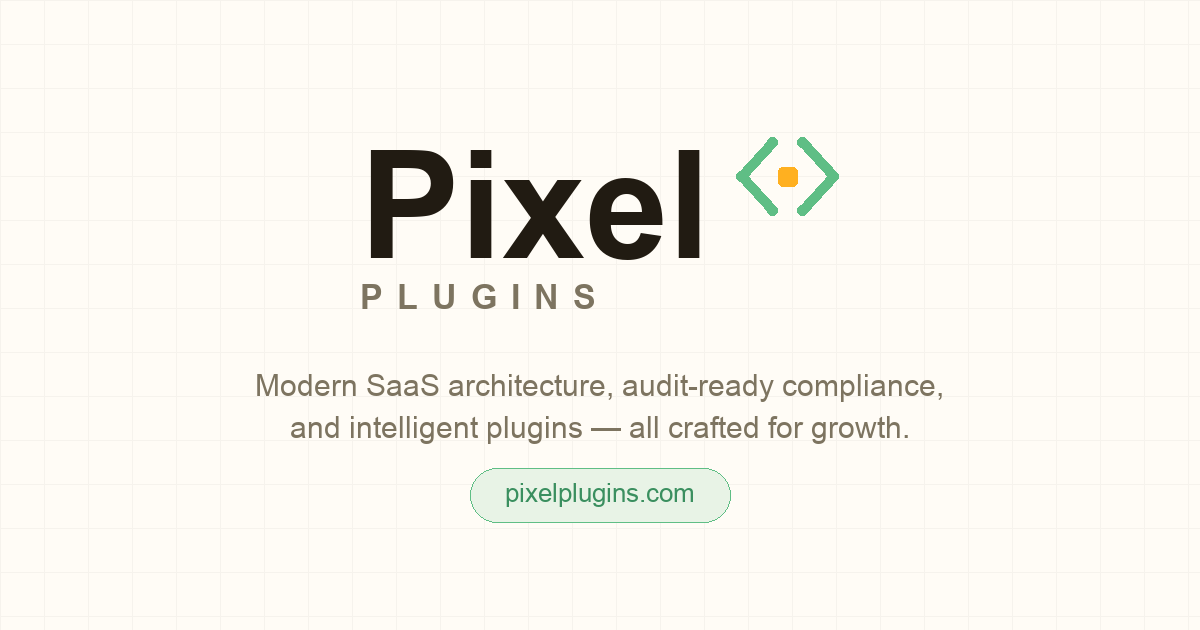
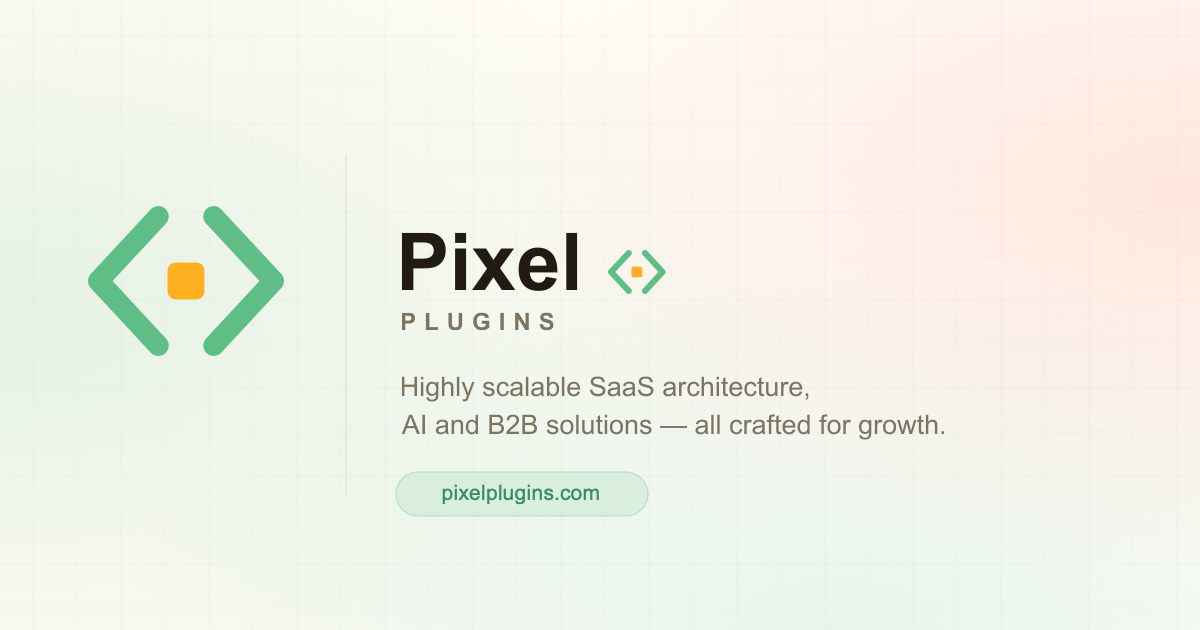
Update tagline copy and rebuild OG image from final design
- Swap tagline to "Highly scalable SaaS architecture, AI and B2B
  solutions, and custom apps & plugins — all crafted for growth."
  across hero subtitle, meta description, og:description, and
  twitter:description (previous line over-indexed on "audit-ready
  compliance," which is one service among many, not the core pitch)
- Replace og-image.svg/png with the final Illustrator-designed version
  (same stacked Pixel/PLUGINS lockup, correct 1200x630 crop)
- Sync the design system doc's type sample to match

diff --git a/index.html b/index.html
@@ -5,18 +5,18 @@
     <meta charset="UTF-8">
     <meta name="viewport" content="width=device-width, initial-scale=1.0">
     <title>Pixel Plugins — Scalable Software, AI Solutions & Custom Plugins</title>
-    <meta name="description" content="Modern SaaS architecture, audit-ready compliance, and intelligent plugins — all crafted for growth.">
+    <meta name="description" content="Highly scalable SaaS architecture, AI and B2B solutions, and custom apps & plugins — all crafted for growth.">
     <meta property="og:type" content="website">
     <meta property="og:site_name" content="Pixel Plugins">
     <meta property="og:title" content="Pixel Plugins — Scalable Software, AI Solutions & Custom Plugins">
-    <meta property="og:description" content="Modern SaaS architecture, audit-ready compliance, and intelligent plugins — all crafted for growth.">
+    <meta property="og:description" content="Highly scalable SaaS architecture, AI and B2B solutions, and custom apps & plugins — all crafted for growth.">
     <meta property="og:url" content="https://pixelplugins.com/">
     <meta property="og:image" content="https://pixelplugins.com/assets/brand/og-image.png">
     <meta property="og:image:width" content="1200">
     <meta property="og:image:height" content="630">
     <meta name="twitter:card" content="summary_large_image">
     <meta name="twitter:title" content="Pixel Plugins — Scalable Software, AI Solutions & Custom Plugins">
-    <meta name="twitter:description" content="Modern SaaS architecture, audit-ready compliance, and intelligent plugins — all crafted for growth.">
+    <meta name="twitter:description" content="Highly scalable SaaS architecture, AI and B2B solutions, and custom apps & plugins — all crafted for growth.">
     <meta name="twitter:image" content="https://pixelplugins.com/assets/brand/og-image.png">
     <meta name="facebook-domain-verification" content="6ew9ocj0i7qjqh1loqigjd9umc642s" />
     <link rel="preconnect" href="https://fonts.googleapis.com">
@@ -57,7 +57,7 @@
             <div class="hero-inner">
                 <div class="eyebrow"><span class="dot"></span>Pixel Plugins</div>
                 <h1>Build smarter. Scale faster. <span class="hl">Stay compliant.</span></h1>
-                <p class="hero-sub">Modern SaaS architecture, audit-ready compliance, and intelligent plugins — all crafted for growth.</p>
+                <p class="hero-sub">Highly scalable SaaS architecture, AI and B2B solutions, and custom apps & plugins — all crafted for growth.</p>
                 <div class="hero-actions">
                     <a href="#contact" class="btn-primary"><i class="ph-light ph-rocket-launch"></i> Work with us</a>
                     <a href="#services" class="btn-ghost">Explore services <i class="ph-light ph-arrow-right"></i></a>

diff --git a/assets/brand/Pixel Plugins Design System - Prism.html b/assets/brand/Pixel Plugins Design System - Prism.html
@@ -164,7 +164,7 @@
       <div class="scale-row"><div class="spec">Jakarta 800 · -0.03em · 2.8rem</div><div class="demo t-hero">Modern, colorful, never <span class="hl">shouting</span></div></div>
       <div class="scale-row"><div class="spec">Jakarta 700 · -0.02em · 2rem</div><div class="demo t-h2">A confident heading</div></div>
       <div class="scale-row"><div class="spec">Jakarta 700 · 0.78rem · 0.08em</div><div class="demo t-label">Section Label</div></div>
-      <div class="scale-row"><div class="spec">Jakarta 400 · 1.02rem · 1.7 lh</div><div class="demo t-body">Modern SaaS architecture, audit-ready compliance, and intelligent plugins.</div></div>
+      <div class="scale-row"><div class="spec">Jakarta 400 · 1.02rem · 1.7 lh</div><div class="demo t-body">Highly scalable SaaS architecture, AI and B2B solutions.</div></div>
       <div class="scale-row"><div class="spec">Jakarta 600 · 0.82rem</div><div class="demo t-small">Caption &amp; meta</div></div>
     </div>
   </section>